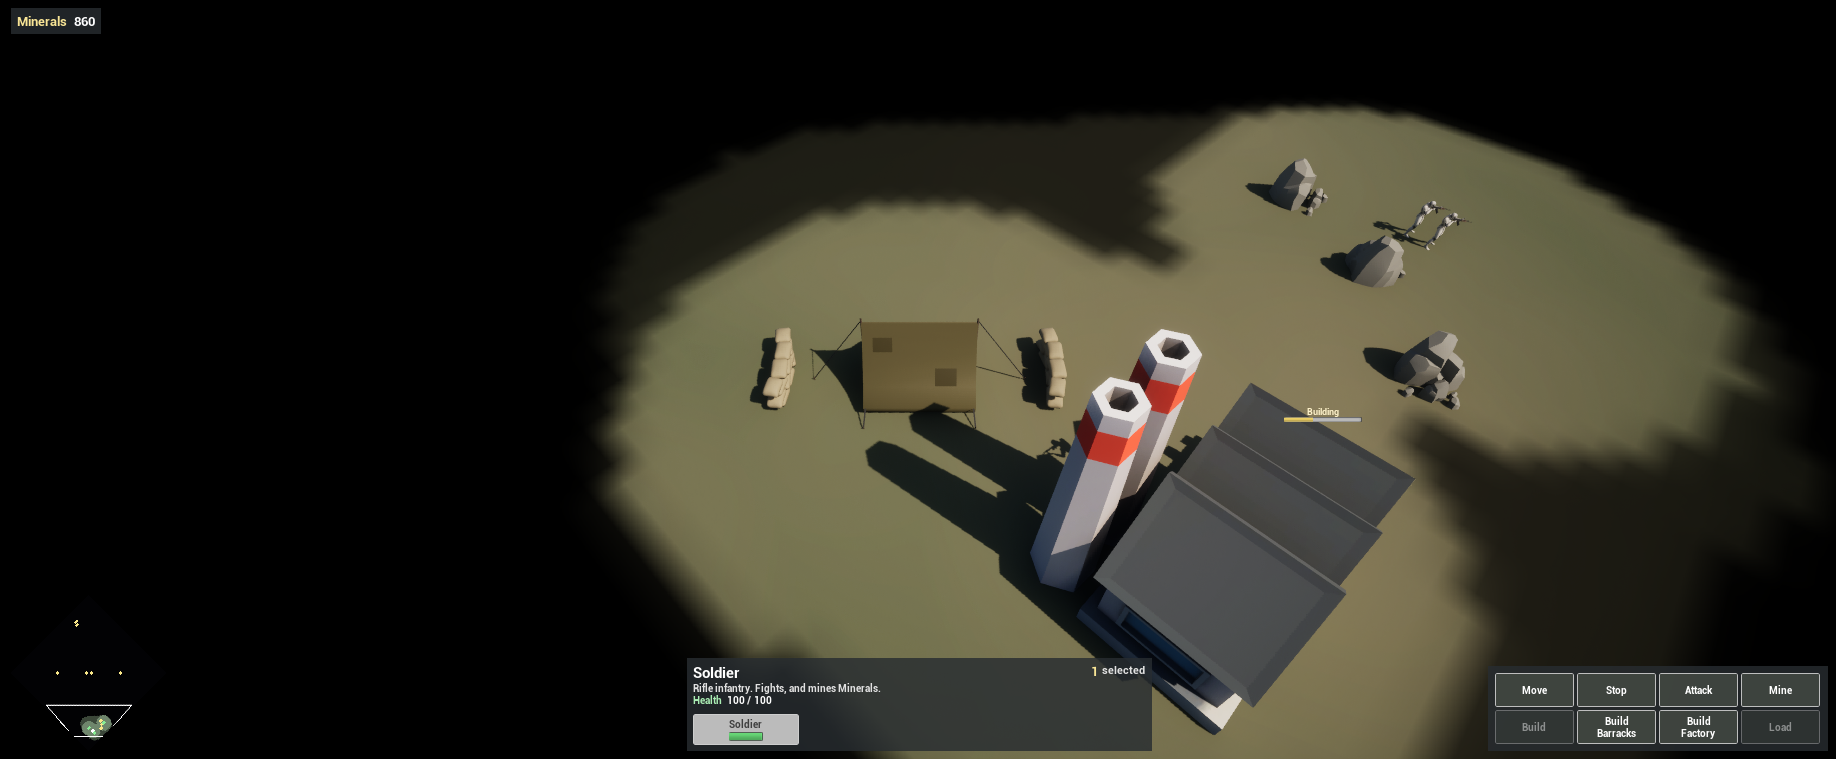
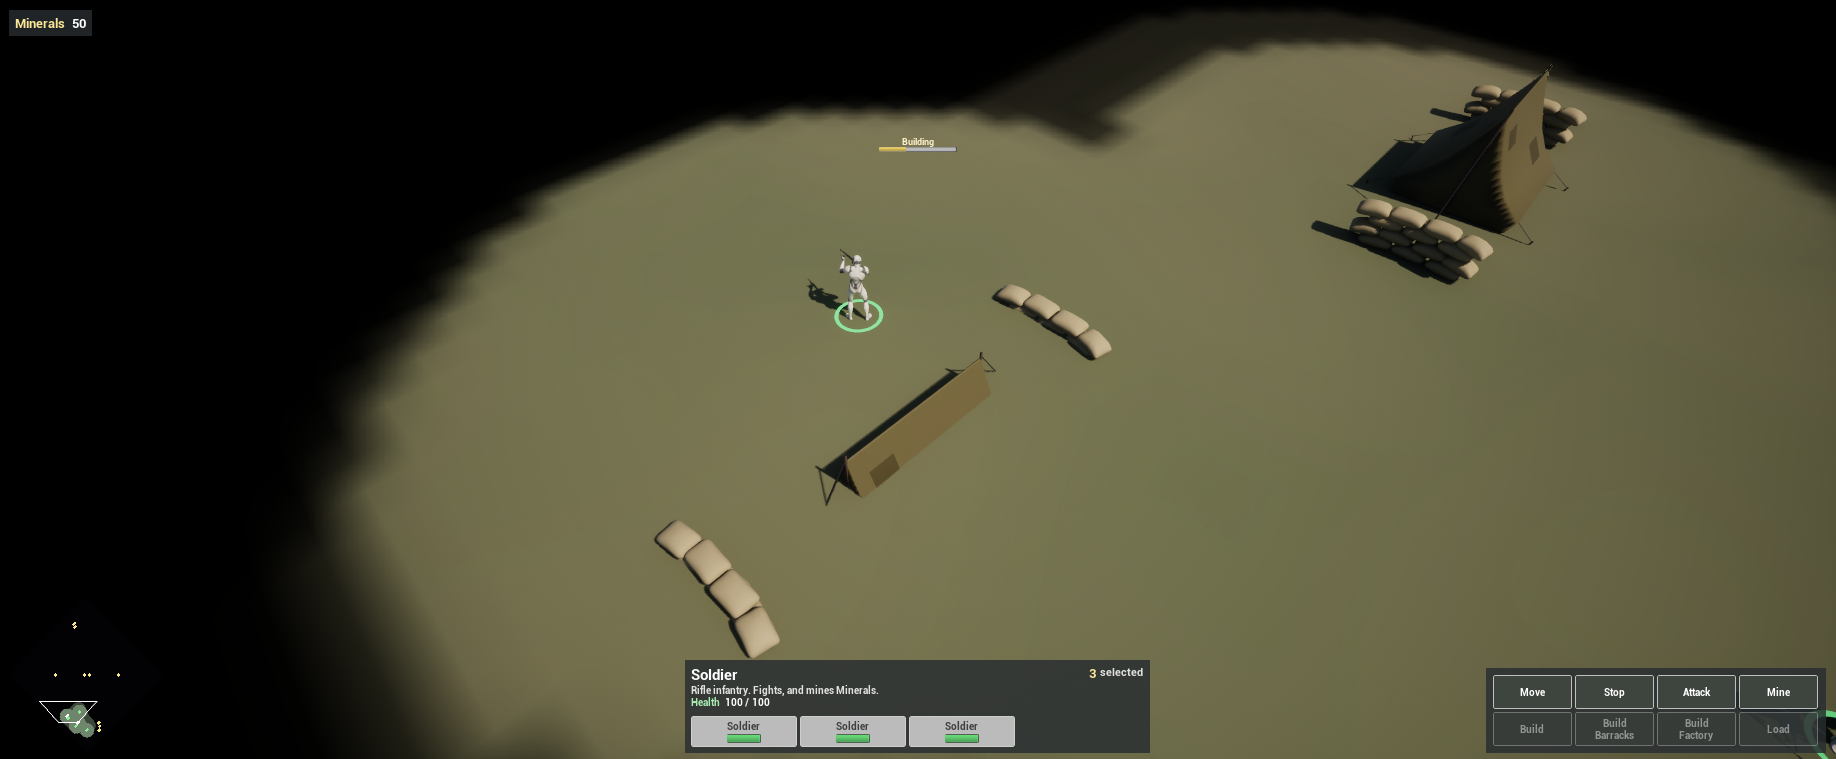
Document facing targets, drag selection without buildings and the construction rise

diff --git a/src/content/docs/guides/building-production-buildings.md b/src/content/docs/guides/building-production-buildings.md
@@ -3,7 +3,7 @@ title: Build Production Buildings
 description: Create the Barracks and Factory, place them from a targeter with a ghost preview, construct them over simulation time, and start each player with a Barracks and three Soldiers.
 ---
 
-![A Factory under construction beside the starting base, its construction bar filling.](../../../assets/guides/building-production-buildings/buildings-header.png)
+![A Barracks rising out of the ground while a Soldier builds it, its construction bar filling, beside a finished one.](../../../assets/guides/building-production-buildings/buildings-header.png)
 
 Complete [Build the HUD](/guides/building-the-hud/) first. This chapter adds the two buildings. A Soldier places one for Minerals; the building starts as a site and becomes usable once Soldiers have worked on it long enough. Each player now starts with a Barracks and three Soldiers.
 
@@ -15,7 +15,7 @@ In `Content/Demo/Units`, create a **SeinARTS Entity Blueprint** (Generic Entity)
 | --- | --- |
 | Sein Identity | Display Name `Barracks`, Description `Trains Soldiers and researches Training and Motor Pool.` |
 | Static Meshes | The model: the demo uses a tent (scale `0.3`) flanked by two sandbag walls at Y `±470`; Collision **No Collision** |
-| Sein Extents | One Box: Half Extent X `250`, Y `400`, Height `320`; Blocks Nav on; Collision Enabled; Mobility **Static** |
+| Sein Extents | One Box: Half Extent X `250`, Y `400`, Height `320`; Blocks Nav on; Collision Enabled; Mobility **Static**; Selection Policy **Like Units Only**; **Include in Drag Selection** off |
 | Sein Vision | Default stamp, Eye Height `180` |
 | Sein Construction | Required Work `20` |
 | `SC_Health` | Max Health and Health `1000` |
@@ -23,6 +23,8 @@ In `Content/Demo/Units`, create a **SeinARTS Entity Blueprint** (Generic Entity)
 | `BPC_SelectionRing` | Location Z `3`, Scale `(8, 8, 1)` |
 
 **Sein Construction** makes the entity buildable. Required Work is the work that completes it: a builder adds its Delta Time each tick, so one Soldier finishes a Barracks in 20 seconds and two in 10.
+
+The two selection settings keep buildings out of unit selections. With **Include in Drag Selection** off, a drag rectangle picks up only units; click a building to select it. **Like Units Only** lets several Barracks share a selection, but never a Barracks and Soldiers, even with Shift.
 
 ## 2. The Factory
 
@@ -38,11 +40,18 @@ Create `SU_Factory` the same way:
 | `HealthBar` Location Z | `600` |
 | Selection ring Scale | `(9, 9, 1)` |
 
-## 3. The construction bar
+## 3. The construction bar and the rise
 
 Create a widget `WBP_BuildProgress` with parent **Sein Construction Work Progress Widget**: a Vertical Box holding a Text Block `Label` and a Progress Bar named `ProgressBar` (`100 × 8`). In Class Defaults set **Progress Label Name** to `Label`.
 
 Add a **Sein Entity Widget Component** `BuildProgress` to both buildings: Widget Class `WBP_BuildProgress`, Space **Screen**, Draw Size `110 × 26`, above the health bar (Z `640` and `720`). The parent class shows it while the building is under construction and hides it when it completes.
+
+A site should also look unfinished. In `Content/Demo/Core`, create a Blueprint `BPC_ConstructionRise` with parent **Sein Entity Binding Component**, which ties a component to its actor's entity. Give it three array variables: `Meshes` (Static Mesh Component), `BaseLocations` (Vector) and `Heights` (Float).
+
+- **Event BeginPlay**: **Get Components by Class** (Static Mesh Component) on **Get Owner**; **For Each Loop**: add the mesh to `Meshes`, its **Get Relative Location** to `BaseLocations`, and twice the Z of its **Get Component Bounds** Box Extent to `Heights`.
+- **Event Tick**: read **Get Entity Handle**. While **Is Under Construction**, take the work left, `1 −` **To Float** of **Get Construction Work Percent**, and in a loop over the indices **Set Relative Location** of each mesh to its base location minus `(0, 0, Heights[i] × left)`. Otherwise, once **Is Entity Alive** (the binding has found the entity), set every mesh back to its base location and **Set Component Tick Enabled** off.
+
+Add `BPC_ConstructionRise` to both buildings. A new site starts sunk into the ground and rises with the work, and a finished building stands at full height, starting Barracks included. The component only reads construction state; it moves the visible meshes and never the entity.
 
 ## 4. Build: SA_Build
 
@@ -146,12 +155,14 @@ Play:
 
 1. Each start has a Barracks with three Soldiers in front of it.
 2. Select the Soldiers and click **Build Barracks**. A ghost follows the cursor, green on open ground and red over the starting Barracks. Click open ground, and drag before releasing to turn it. Minerals drop by 150.
-3. One Soldier walks over and builds; the construction bar fills over 20 seconds. Right-click the site with the others: it fills faster.
-4. Build Factory is listed and builds the same way. The next chapter locks it behind research.
+3. One Soldier walks over and builds; the construction bar fills over 20 seconds and the Barracks rises out of the ground. Right-click the site with the others: it fills faster.
+4. Drag a selection rectangle over a Barracks and the Soldiers: only the Soldiers are selected. Click the Barracks to select it.
+5. Build Factory is listed and builds the same way. The next chapter locks it behind research.
 
 ## Checkpoint
 
-- Both buildings are Static, nav-blocking entities with Sein Construction.
+- Both buildings are Static, nav-blocking entities with Sein Construction, left out of drag selections.
+- `BPC_ConstructionRise` raises a site's meshes with its work.
 - `SA_Place_*` spawn a queued site and order the placer to build it; `SA_Build` adds work each tick.
 - A player starts with a Barracks from its start and three Soldiers from `SA_StartingForces`.
 

diff --git a/src/content/docs/guides/adding-combat.md b/src/content/docs/guides/adding-combat.md
@@ -44,12 +44,12 @@ Add a function `TryShot` with an input `Target` (Sein Entity Handle) and a Boole
 
 1. Read the owner's weapon with **Get Attribute** (Entity **Owner Entity**, Component Type `SC_CombatData`, Field `Damage`, and again for `Range`). Get Attribute reads the field's effective value, after any upgrades.
 2. **Make Sein Target Query**: Instigator **Owner Entity**, Range from `Range`, Required Component `SC_HealthData`. **Check Target** with the query and `Target`, then **Switch on ESeinTargetCheckResult**. Every result but **Eligible** returns `Continue` false.
-3. On Eligible: add a local Fixed Point variable `Dealt` and set it to the **Min** of Damage and the target's `Health`, the damage this shot actually deals. Then **Apply Field Delta** on the target's `SC_HealthData` field `Health` with Delta **Negate** Damage and **Clamp Min** on, and after it **Notify Damage Applied** (Target, Source **Owner Entity**, Amount `Dealt`). `Dealt` is read before the write, so a killing shot still reports the health it took. Then **Notify Event**: Event Tag `SeinARTS.Event.Fire` (add the tag when prompted), Primary Entity **Owner Entity**, Secondary Entity `Target`; expand the node's advanced pins and set Location to the Location of **Get Entity Transform** on `Target` (**Break Fixed Transform**).
+3. On Eligible: add a local Fixed Point variable `Dealt` and set it to the **Min** of Damage and the target's `Health`, the damage this shot actually deals. Then **Apply Field Delta** on the target's `SC_HealthData` field `Health` with Delta **Negate** Damage and **Clamp Min** on, and after it **Notify Damage Applied** (Target, Source **Owner Entity**, Amount `Dealt`). `Dealt` is read before the write, so a killing shot still reports the health it took. Then **Notify Event**: Event Tag `SeinARTS.Event.Fire` (add the tag when prompted), Primary Entity **Owner Entity**, Secondary Entity `Target`; expand the node's advanced pins and set Location to the Location of **Get Entity Transform** on `Target` (**Break Fixed Transform**). Then **Face Point**: Entity Handle **Owner Entity**, World Point that same Location.
 4. If **At Min**, the target is dead: **Notify Death** (Dying the target, Killer the owner), **Destroy Entity** on the target, and return false. Otherwise return true.
 
 ![SA_Attack's TryShot.](../../../assets/guides/adding-combat/tryshot-graph.png)
 
-Apply Field Delta writes simulation state, so every player's simulation applies the same hit. The Notify nodes only tell presentation what happened: the hit, the shot and the death. Notify Event carries a game-defined event, here `SeinARTS.Event.Fire`, to the Primary Entity's actor; section 4 turns it into a visible shot.
+Apply Field Delta writes simulation state, so every player's simulation applies the same hit. **Face Point** turns the Soldier toward its target at its Turn Rate while it stands, ahead of the facing its last move order left it; the next move clears it. The Notify nodes only tell presentation what happened: the hit, the shot and the death. Notify Event carries a game-defined event, here `SeinARTS.Event.Fire`, to the Primary Entity's actor; section 4 turns it into a visible shot.
 
 ### The firing loop
 
@@ -140,12 +140,12 @@ Compile and save.
 
 ## 6. Test
 
-Set the slot 2 start's **Spawn Entity** to `SU_Soldier` as well, and play. Walk your Soldier towards the other start and right-click the enemy Soldier: yours closes to `900` units and fires about every 0.67 seconds, each shot a flash at the muzzle and a tracer to the target, until one of them dies, ten hits later. Then order a fresh Soldier near the enemy without targeting it: once it stops, Auto-Attack opens fire.
+Set the slot 2 start's **Spawn Entity** to `SU_Soldier` as well, and play. Walk your Soldier towards the other start and right-click the enemy Soldier: yours closes to `900` units, turns to face it and fires about every 0.67 seconds, each shot a flash at the muzzle and a tracer to the target, until one of them dies, ten hits later. Then order a fresh Soldier near the enemy without targeting it: once it stops, Auto-Attack opens fire.
 
 ## Checkpoint
 
 - `SC_Health` and `SC_Combat` are Fixed Point simulation data on the Soldier.
-- `SA_Attack` checks its target and writes Health with Apply Field Delta on a fixed-time loop.
+- `SA_Attack` checks its target, writes Health with Apply Field Delta on a fixed-time loop, and faces the target with Face Point.
 - `SA_AutoAttack` fires only while the Soldier has no order.
 - Each shot sends `SeinARTS.Event.Fire`, and the Soldier plays `NS_RifleShot` from its On Visual Event.
 

diff --git a/src/content/docs/guides/adding-mineral-income.md b/src/content/docs/guides/adding-mineral-income.md
@@ -58,7 +58,7 @@ Add three Fixed Point variables: `MineAmount` `5`, `MineInterval` `1.5` and `Tim
   1. Add `MineInterval` back to `TimeUntilMine`.
   2. The take is the **Min** of `MineAmount` and the rock's `Remaining` (**Get Attribute** on **Target Entity**, `SC_DepositData`, `Remaining`).
   3. **Grant Income** to **Get Entity Owner** of the Owner Entity: **Make Sein Resource Cost** from a **Make Map** of `SeinARTS.Resource.Minerals` → the take.
-  4. **Apply Field Delta** on the rock's `Remaining` by **Negate** of the take, Clamp Min on. If it failed, the rock is gone: **End Ability**. If it succeeded, fire at the rock: **Notify Event** `SeinARTS.Event.Fire` as in `TryShot`, with the Owner Entity as Primary Entity and the Target Entity as Secondary Entity and as the source of Location. Then, if **At Min**, **Destroy Entity** on the rock and End Ability.
+  4. **Apply Field Delta** on the rock's `Remaining` by **Negate** of the take, Clamp Min on. If it failed, the rock is gone: **End Ability**. If it succeeded, fire at the rock: **Notify Event** `SeinARTS.Event.Fire` as in `TryShot`, with the Owner Entity as Primary Entity and the Target Entity as Secondary Entity and as the source of Location, and **Face Point** at that Location. Then, if **At Min**, **Destroy Entity** on the rock and End Ability.
 
 ![SA_Mine's Event Graph.](../../../assets/guides/adding-mineral-income/mine-graph.png)
 
